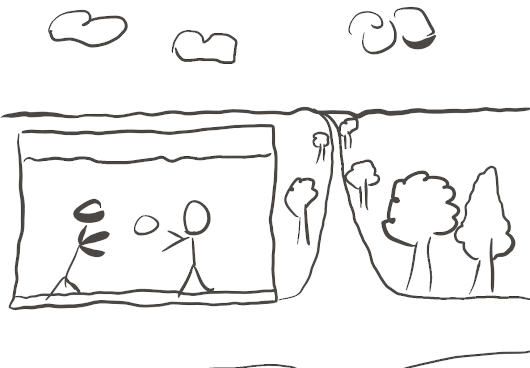
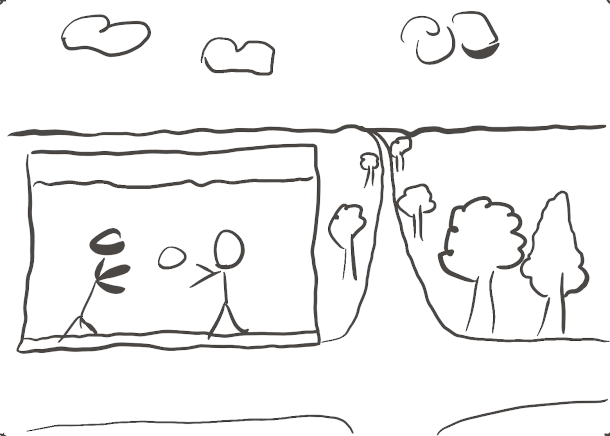
c66

diff --git a/adventure-game/js/config.js b/adventure-game/js/config.js
@@ -182,9 +182,9 @@ var cadre = [
       pozitieIntrareX: 250,
       pozitieIntrareY: 250,
       entries:[
-        {nr_cadru: 0, x:320, y:350},//starting_place
-        {nr_cadru: 4, x:310, y:110},
-        {nr_cadru: 9, x:470, y:320},
+        {nr_cadru: 0, x:390, y:420},//starting_place
+        {nr_cadru: 4, x:360, y:140},
+        {nr_cadru: 9, x:580, y:370},
       ],
       textPrim:
         "You climb a small hill and reach a high land platform from which you \n\
@@ -579,7 +579,7 @@ var cadre = [
       items: [],
       npcs: [],
     },
-    //drive trees
+    // trees
     {
       "nume_cadru": "trees",
       "nrVizite": 0,
@@ -589,8 +589,8 @@ var cadre = [
       pozitieIntrareX: 250,
       pozitieIntrareY: 250,
       entries:[
-        {nr_cadru: 9, x:200, y:350},
-        {nr_cadru: 11, x:210, y:20},
+        {nr_cadru: 9, x:280, y:390},
+        {nr_cadru: 11, x:360, y:180},
       ],
       textPrim:
         "You choose to go near the trees. The branches of the trees are adorned \n\
@@ -633,7 +633,7 @@ var cadre = [
       pozitieIntrareX: 250,
       pozitieIntrareY: 250,
       entries:[
-        {nr_cadru: 10, x:200, y:350},
+        {nr_cadru: 10, x:200, y:400},
       ],
       textPrim:
         "You are now in the palm beach area. Seagulls are flying above the sea, \n\
@@ -951,8 +951,8 @@ let image_strings = [
     "./img/dam.jpg",//7
     "./img/lighthouse.png",//8
     "./img/drive_stop.jpg",//9
-    "./img/trees.jpg",//10
-    "./img/palm_beach.jpg",//11
+    "./img/trees.png",//10
+    "./img/palm_beach.png",//11
     "./img/city_intersection.jpg",//12
     "./img/east_city.jpg",//13
     "./img/port.jpg",//14

diff --git a/adventure-game/js/main.js b/adventure-game/js/main.js
@@ -31,8 +31,8 @@ var paddleHeight = 20;
 var paddleWidth = 40;
 var entriesWidth = 60;
 var entriesHeight = 20;
-var paddleX = 250;//(canvas.width-paddleWidth) / 2;
-var paddleY = 250;//canvas.height - paddleHeight;
+var paddleX = 280;//(canvas.width-paddleWidth) / 2;
+var paddleY = 280;//canvas.height - paddleHeight;
 var relativeX = paddleX; //mouse click position
 var relativeY = paddleY;
 var paddle_dx = 3;
@@ -469,8 +469,8 @@ function collisionDetection() {
 
                 //unde apare cursorul pe ecran dupa ce s-a schimbat cadrul
                 if(intrare_scena){
-                    paddleX = 250; //entry.pozitieIntrareX;
-                    paddleY = 250; //entry.pozitieIntrareY;
+                    paddleX = 280; //entry.pozitieIntrareX;
+                    paddleY = 280; //entry.pozitieIntrareY;
                     intrare_scena = false;
                     relativeX = paddleX;
                     relativeY = paddleY;
